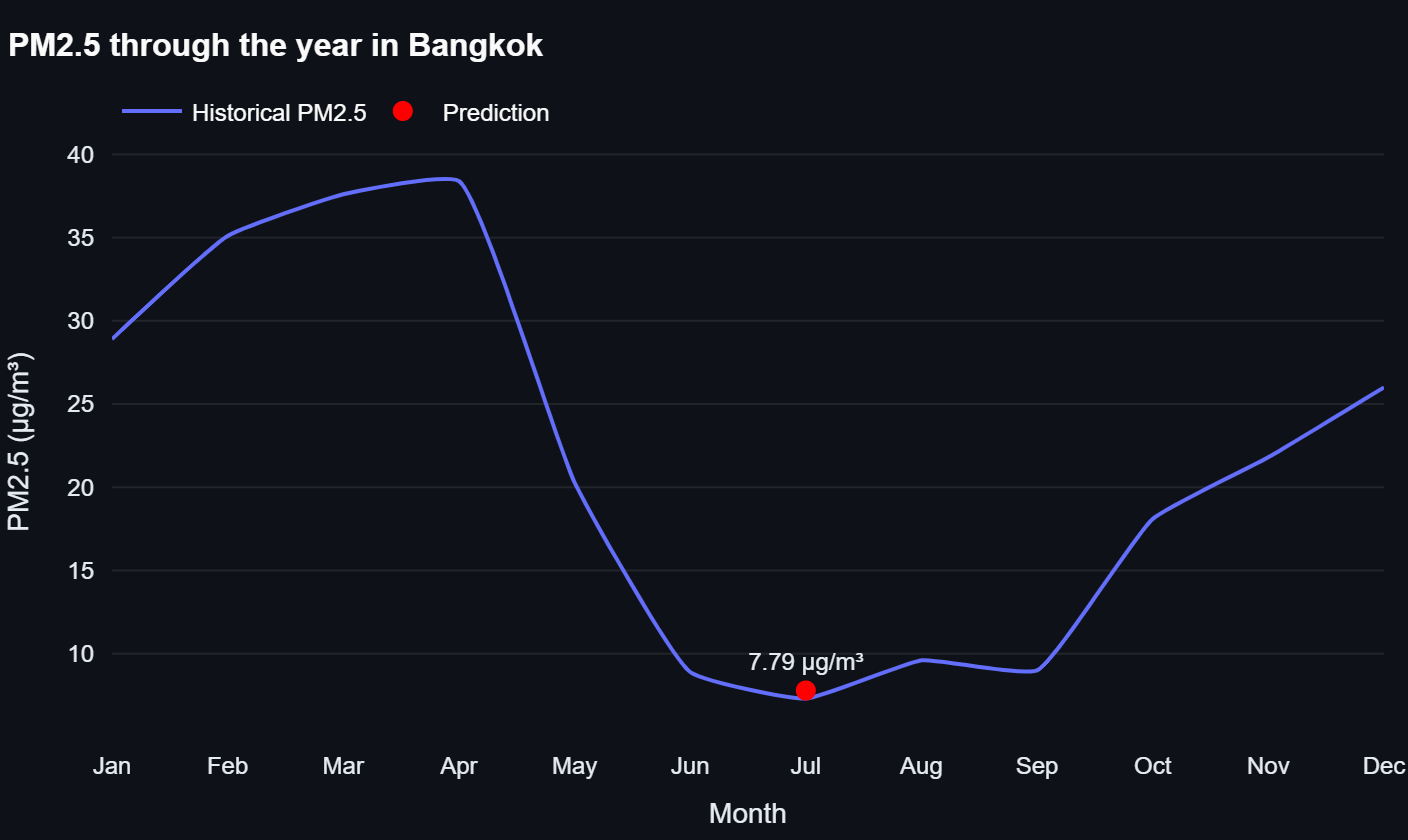
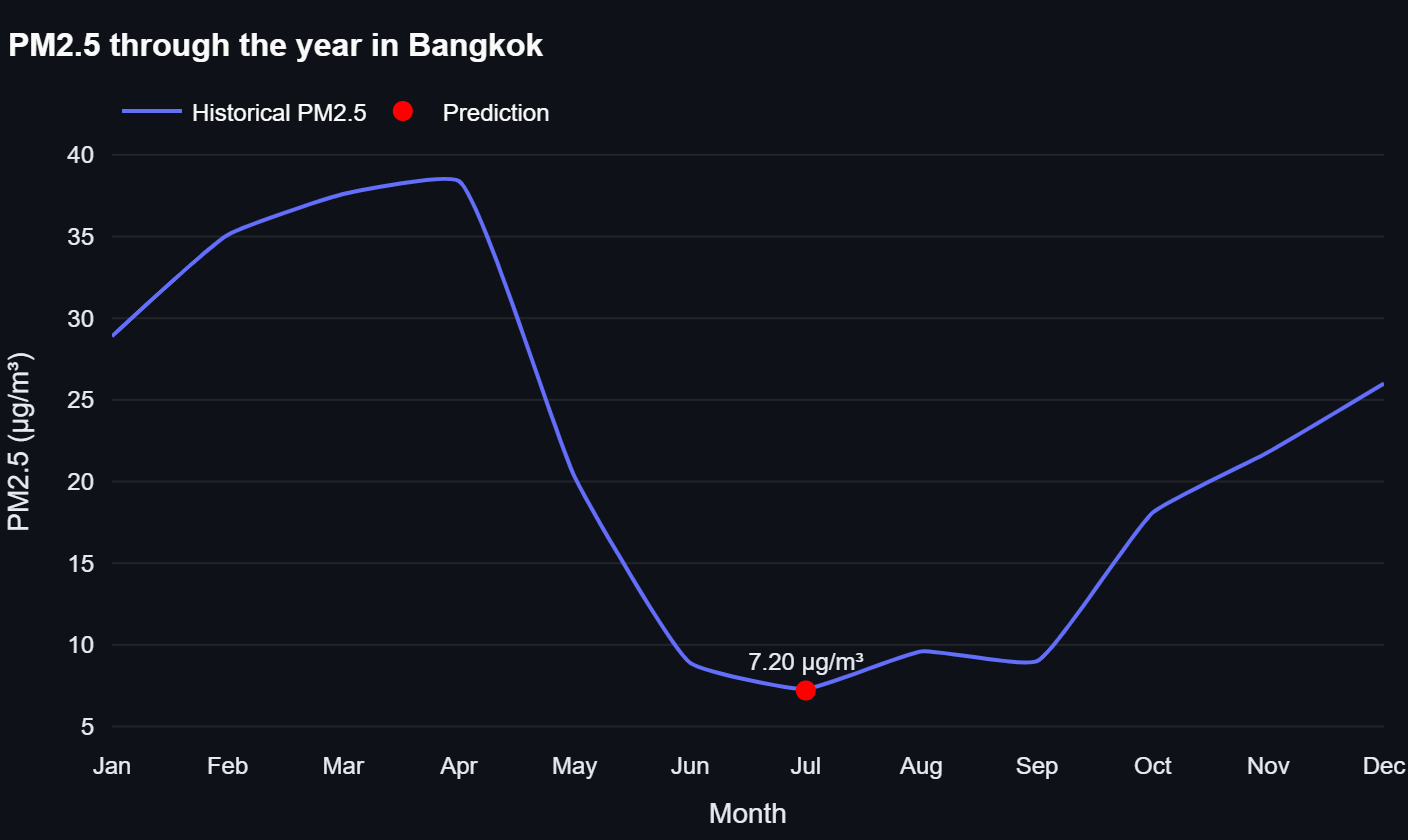
Predict seasonal shape from 25,510 city-months instead of 12 rows
The gauge banded a µg/m³ value on AQI index breakpoints, so 40 µg/m³ showed
green when that is already unhealthy for sensitive groups. Bands are now EPA
PM2.5 breakpoints with the WHO 24-hour guideline of 15 marked, and the caption
says the live value is CAMS model output rather than a station reading.

The model trained on one city at a time: twelve rows, a random split that
trains on December to predict June, and the annual mean as an input feature,
which is the mean of the twelve values being predicted.

Pooling cities and predicting level from static features was tried first and
came out at 21.9 MAE against 17.6 for plain monthly climatology, so it is not
in the build. Population density describes emission potential, not what the
air is doing.

What ships instead predicts the seasonal multiplier and scales it by the
city's own level. 25,510 city-months, 2,106 cities, grouped five-fold so whole
cities are held out, and an anchor that excludes the month being predicted so
the target does not leak into its own feature. 5.1 µg/m³ MAE against 9.5 for
assuming every month equals the annual average.

Predictions now carry an 80% interval from the spread across the forest's
trees, and the UI states the error against baseline rather than leaving the
reader to assume.

diff --git a/EveryAir/EveryAir.py b/EveryAir/EveryAir.py
@@ -12,7 +12,7 @@ import numpy as np
 import plotly.graph_objects as go
 import folium
 from streamlit_folium import folium_static
-from sklearn.model_selection import train_test_split
+from sklearn.model_selection import GroupKFold
 from sklearn.metrics import mean_absolute_error
 from sklearn.preprocessing import StandardScaler
 from folium.plugins import MarkerCluster
@@ -215,23 +215,84 @@ try:
 except ValueError:
     st.error("Latitude and Longitude are NaN.")
 
-# Features and target
-X = data[['Month', '2023']].copy()
-# New Humidity and temperature feature
-if 'Temperature' in data.columns and 'Humidity' in data.columns:
-    X['Temperature'] = data['Temperature']
-    X['Humidity'] = data['Humidity']
+MONTH_NAMES = ['Jan', 'Feb', 'Mar', 'Apr', 'May', 'Jun',
+               'Jul', 'Aug', 'Sep', 'Oct', 'Nov', 'Dec']
+SEASON_FEATURES = ['month_sin', 'month_cos', 'country_code', 'pop_density']
 
-y = data['PM2.5']
 
-# Splitting | Train-test
+@st.cache_resource(show_spinner=False)
+def train_seasonal_model():
+    pop_avg = pop_df.groupby('City', as_index=False)['pop_density'].mean()
+    panel = df.melt(id_vars=['Rank', 'City', 'Country', '2023'], value_vars=MONTH_NAMES,
+                    var_name='MonthName', value_name='PM2.5')
+    panel['Month'] = panel['MonthName'].map({m: i + 1 for i, m in enumerate(MONTH_NAMES)})
+    panel['PM2.5'] = pd.to_numeric(panel['PM2.5'], errors='coerce')
+    panel = panel.dropna(subset=['PM2.5']).merge(pop_avg, on='City', how='left')
+    panel['pop_density'] = panel['pop_density'].fillna(panel['pop_density'].median())
+
+    total = panel.groupby('City')['PM2.5'].transform('sum')
+    count = panel.groupby('City')['PM2.5'].transform('count')
+    panel['anchor'] = (total - panel['PM2.5']) / (count - 1)
+    panel = panel[(panel['anchor'] > 0) & (count > 6)].copy()
+    panel['ratio'] = panel['PM2.5'] / panel['anchor']
+    panel['month_sin'] = np.sin(2 * np.pi * panel['Month'] / 12)
+    panel['month_cos'] = np.cos(2 * np.pi * panel['Month'] / 12)
+    countries = {c: i for i, c in enumerate(sorted(panel['Country'].astype(str).unique()))}
+    panel['country_code'] = panel['Country'].astype(str).map(countries)
+
+    features, target, groups = panel[SEASON_FEATURES], panel['ratio'], panel['City']
+    model_errors, flat_errors = [], []
+    for train_idx, test_idx in GroupKFold(n_splits=5).split(features, target, groups):
+        fold = RandomForestRegressor(n_estimators=200, random_state=42,
+                                     min_samples_leaf=3, n_jobs=-1)
+        fold.fit(features.iloc[train_idx], target.iloc[train_idx])
+        predicted = fold.predict(features.iloc[test_idx]) * panel.iloc[test_idx]['anchor'].values
+        model_errors.append(mean_absolute_error(panel.iloc[test_idx]['PM2.5'], predicted))
+        flat_errors.append(mean_absolute_error(panel.iloc[test_idx]['PM2.5'],
+                                               panel.iloc[test_idx]['anchor']))
+
+    model = RandomForestRegressor(n_estimators=300, random_state=42,
+                                  min_samples_leaf=3, n_jobs=-1)
+    model.fit(features, target)
+    return model, countries, {
+        'model_mae': float(np.mean(model_errors)),
+        'flat_mae': float(np.mean(flat_errors)),
+        'rows': int(len(panel)),
+        'cities': int(panel['City'].nunique()),
+    }
+
+
+season_model, country_codes, model_report = train_seasonal_model()
+
+city_months = data.sort_values('Month')
+city_anchor = float(city_months['PM2.5'].mean())
+city_country = str(df.loc[df['City'] == city, 'Country'].iloc[0]) if (df['City'] == city).any() else ''
+
+
+def season_features(month_value, anchor_pop):
+    return pd.DataFrame([{
+        'month_sin': np.sin(2 * np.pi * month_value / 12),
+        'month_cos': np.cos(2 * np.pi * month_value / 12),
+        'country_code': country_codes.get(city_country, -1),
+        'pop_density': anchor_pop,
+    }])[SEASON_FEATURES]
+
+
+def predict_month(month_value, anchor=None, anchor_pop=None):
+    anchor = city_anchor if anchor is None else anchor
+    row = season_features(month_value, anchor_pop if anchor_pop is not None else 0.0)
+    per_tree = np.array([t.predict(row)[0] for t in season_model.estimators_])
+    centre = float(per_tree.mean()) * anchor
+    spread = float(per_tree.std()) * anchor
+    return centre, max(centre - 1.28 * spread, 0.0), centre + 1.28 * spread
+
 
 # Current Date
 current_month = datetime.now().month
 current_year = datetime.now().year
 
-temperature, humidity, wind_speed, min_temp, max_temp, rainfall = fetch_additional(latitude, longitude) # fetch weather
-ndvi = fetch_ndvi(latitude, longitude) # fetch NDVI based on lat/lon
+temperature, humidity, wind_speed, min_temp, max_temp, rainfall = fetch_additional(latitude, longitude)
+ndvi = fetch_ndvi(latitude, longitude)
 SEARCH_RADIUS_KM = 50
 industrial_sites = fetch_industrial_sites_near_city(latitude, longitude)
 industry_lookup_failed = industrial_sites is None
@@ -240,48 +301,14 @@ dist = (km_to_nearest_site([latitude], [longitude], industrial_sites).tolist()
         if industrial_sites else [])
 nearest_industrial = min(dist) if dist else float(SEARCH_RADIUS_KM)
 if temperature is not None:
-    st.sidebar.write("🌦 Live Weather Information:")
-    st.sidebar.code(f"🌡 Temperature: {temperature:.0f}°C")
-    st.sidebar.code(f"💧 Humidity: {humidity} %")
-    st.sidebar.code(f"☔ Rainfall: {rainfall} mm")
+    st.sidebar.write("Live weather")
+    st.sidebar.code(f"Temperature: {temperature:.0f}°C")
+    st.sidebar.code(f"Humidity: {humidity} %")
+    st.sidebar.code(f"Rainfall: {rainfall} mm")
 else:
-    st.sidebar.write("Data Fetch Failed:\n")
-    st.sidebar.write("Please try again later (￣﹏￣；)")
+    st.sidebar.write("Weather fetch failed, try again later.")
 
 pop_density, street_density = fetch_urban(df_merged, city)
-if pop_density is not None:
-    X['pop_density'] = pop_density
-    X['street_density'] = street_density
-    X['NDVI'] = ndvi
-    X['dist'] = nearest_industrial
-
-X_train, X_test, y_train, y_test = train_test_split(X, y, test_size=0.2, random_state=42)
-
-def feature_row(month_value, yearly_value=None):
-    row = {c: X[c].iloc[0] for c in X.columns}
-    row["Month"] = month_value
-    if yearly_value is not None:
-        row["2023"] = yearly_value
-    return pd.DataFrame([row])[X.columns]
-
-
-# Extended Models
-models = {
-    "Random Forest": RandomForestRegressor(n_estimators=100, random_state=42),
-    "Linear Regression": LinearRegression(),
-    "Gradient Boosting": GradientBoostingRegressor(random_state=42),
-    "XGBoost": XGBRegressor(random_state=42),
-}
-
-model_scores = {}
-for model_type, model in models.items():
-    model.fit(X_train, y_train)
-    y_pred = model.predict(X_test)
-    mae = mean_absolute_error(y_test, y_pred)
-    model_scores[model_type] = mae
-
-best_model = min(model_scores, key=model_scores.get)
-best_model_instance = models[best_model]
 
 # Real-Time Data
 def fetch_real_time_pm2_5(lat, lon):
@@ -348,17 +375,22 @@ if st.session_state.show_content:
         fig.add_trace(go.Indicator(
             mode="gauge+number",
             value=pm2_5_value,
-            title={"text": f"Real-Time PM2.5 Level for {city}"},
+            title={"text": f"PM2.5 right now in {city} (µg/m³)"},
             gauge={
-                "axis": {"range": [0, 500]},
+                "axis": {"range": [0, 250], "tickvals": [0, 9, 35.4, 55.4, 125.4, 250]},
                 "steps": [
-                    {"range": [0, 50], "color": "#5bfc6b"},    
-                    {"range": [50, 100], "color": "#dcfc5b"},
-                    {"range": [100, 150], "color": "#fc965b"},
-                    {"range": [150, 200], "color": "#ff4b33"},  
-                    {"range": [200, 500], "color": "#9e1010"}
+                    {"range": [0, 9], "color": "#5bfc6b"},
+                    {"range": [9, 35.4], "color": "#dcfc5b"},
+                    {"range": [35.4, 55.4], "color": "#fc965b"},
+                    {"range": [55.4, 125.4], "color": "#ff4b33"},
+                    {"range": [125.4, 250], "color": "#9e1010"}
                 ],
-                "bar": {"color": "black"}
+                "threshold": {
+                    "line": {"color": "#ffffff", "width": 3},
+                    "thickness": 0.85,
+                    "value": 15,
+                },
+                "bar": {"color": "#111111"}
             }
         ))
         fig.update_layout(
@@ -369,8 +401,13 @@ if st.session_state.show_content:
         )
 
         st.plotly_chart(fig, use_container_width=True)
+        st.caption(
+            "Bands are US EPA PM2.5 breakpoints in µg/m³. The white line marks the "
+            "WHO 24-hour guideline of 15 µg/m³. Live value is CAMS model output from "
+            "OpenWeather, not a ground station."
+        )
 
-    def show_city_on_map(city, latitude, longitude, input_features, best_model_instance, real_time_pm2_5=None, predicted_pm2_5=None):
+    def show_city_on_map(city, latitude, longitude, real_time_pm2_5=None, predicted_pm2_5=None):
         st.subheader(f"Where it settles in {city}")
 
         m = folium.Map(location=[latitude, longitude], zoom_start=9)
@@ -390,50 +427,12 @@ if st.session_state.show_content:
             folium_static(m, width=1120, height=520)
             st.caption(note)
 
-        if "dist" not in X.columns or not industrial_sites:
-            draw_single_marker(
-                "The industrial site lookup failed, so the map shows the single city "
-                "prediction rather than a surface."
-                if industry_lookup_failed else
-                "No industrial sites mapped nearby, so nothing varies the prediction "
-                "across the map. One value for the whole city."
-            )
-            return
-
-        span, steps = 0.4, 28
-        mesh_lat, mesh_lon = np.meshgrid(
-            np.linspace(latitude - span, latitude + span, steps),
-            np.linspace(longitude - span, longitude + span, steps),
-        )
-        flat_lat, flat_lon = mesh_lat.ravel(), mesh_lon.ravel()
-
-        frame = pd.DataFrame([{c: X[c].iloc[0] for c in X.columns} for _ in range(len(flat_lat))])
-        frame["Month"] = current_month
-        frame["dist"] = km_to_nearest_site(flat_lat, flat_lon, industrial_sites)
-        values = best_model_instance.predict(frame[X.columns])
-        spread = float(values.max()) - float(values.min())
-
-        if spread < 0.5:
-            draw_single_marker(
-                f"Distance to industry ranges {frame['dist'].min():.0f} to "
-                f"{frame['dist'].max():.0f} km across this area, but the model returns the "
-                f"same value throughout, so there is no surface to draw. Training uses one "
-                f"row per month for a single city, which leaves distance constant and gives "
-                f"the model nothing to learn from."
-            )
-            return
-
-        HeatMap(
-            [[float(flat_lat[i]), float(flat_lon[i]), float(values[i])] for i in range(len(values))],
-            radius=30, blur=24, min_opacity=0.2,
-            max_val=float(values.max()),
-            gradient={0.0: "#2c7bb6", 0.4: "#abd9e9", 0.6: "#ffffbf",
-                      0.8: "#fdae61", 1.0: "#d7191c"},
-        ).add_to(m)
-        folium_static(m, width=1120, height=520)
-        st.caption(
-            f"Predicted {values.min():.1f} to {values.max():.1f} µg/m³ across the area, "
-            f"varying with distance to industry."
+        draw_single_marker(
+            f"{predicted_pm2_5:.1f} µg/m³ predicted for {city} this month. The model "
+            f"works at city level, so there is one value for the whole area rather than "
+            f"a surface."
+            if predicted_pm2_5 is not None else
+            "No prediction available for this city."
         )
 
 
@@ -452,8 +451,7 @@ if st.session_state.show_content:
 
     # Predict PM2.5
     if real_time_pm2_5 is not None:
-        input_features = feature_row(current_month)
-        predicted_pm2_5 = best_model_instance.predict(input_features)[0]
+        predicted_pm2_5, predicted_low, predicted_high = predict_month(current_month)
 
         # Two rows of four rather than 4/3/3, which never lined up. The unit
         # belongs in the label: st.metric's third argument is a delta, so
@@ -517,20 +515,21 @@ if st.session_state.show_content:
 
         # Yearly avg prediction input
         st.subheader("Predict a month")
-        _city_avg = float(data['2023'].iloc[0]) if len(data) else 100.0
+        _city_avg = city_anchor
         pc1, pc2 = st.columns(2)
         with pc1:
             month = st.selectbox("Month", list(month_map.keys()))
         with pc2:
             yearly_avg = st.number_input(
-                "Yearly average (µg/m³)", value=round(_city_avg, 1), step=1.0)
+                "Typical yearly level (µg/m³)", value=round(_city_avg, 1), step=1.0,
+                help="The model predicts the seasonal shape and scales it by this level.")
         # Prediction
         if st.button("Predict"):
             with st.spinner(text="Predicting..."):
                 time.sleep(2)
             month_numeric = month_map[month]
-            input_features = feature_row(month_numeric, yearly_avg)
-            prediction = best_model_instance.predict(input_features)
+            prediction, prediction_low, prediction_high = predict_month(
+                month_numeric, anchor=yearly_avg)
             with st.status("Predicting Data..."):
                 st.write("Fetching trained data...")
                 time.sleep(2)
@@ -544,6 +543,14 @@ if st.session_state.show_content:
             st.success(f"🔎\tPredicted PM2.5 level for {month}: **{prediction[0]:.2f}**\t")
 
         st.subheader("Forecast")
+        st.caption(
+            f"Seasonal shape learned from {model_report['rows']:,} city-months across "
+            f"{model_report['cities']:,} cities. Tested on cities held out of training: "
+            f"{model_report['model_mae']:.1f} µg/m³ mean absolute error, against "
+            f"{model_report['flat_mae']:.1f} for assuming every month equals the city's "
+            f"annual average. This is climatology, not a weather forecast: it says what "
+            f"a month typically looks like, not what next week will bring."
+        )
 
         # Visualisation
         fig = go.Figure()
@@ -581,5 +588,5 @@ if st.session_state.show_content:
         fig.update_yaxes(automargin=True, gridcolor='rgba(255,255,255,0.08)', zeroline=False)
 
         st.plotly_chart(fig, use_container_width=True)
-        show_city_on_map(city, latitude, longitude, input_features, best_model_instance,
+        show_city_on_map(city, latitude, longitude,
                          real_time_pm2_5=real_time_pm2_5, predicted_pm2_5=predicted_pm2_5)   

diff --git a/README.md b/README.md
@@ -15,31 +15,61 @@ Shots of the thing actually running, because a folder of `.py` files proves noth
 
 ![Real-time PM2.5 gauge for Bangkok](docs/screenshots/gauge.png)
 
-Current reading off OpenWeather, dropped on a 0 to 500 scale. The colour bands
-are the usual AQI breakpoints, so you can read it without reading the number.
-Bangkok on a good afternoon sits near the floor, which is less exciting than it
-sounds.
+Current reading in µg/m³, banded on US EPA PM2.5 breakpoints, with the WHO
+24-hour guideline of 15 µg/m³ marked as a white line.
 
-### Forecast against history
+The bands used to be 0-50 green, 50-100 yellow and so on. Those are AQI index
+numbers, and the gauge was showing µg/m³. Two different scales on one dial: it
+coloured 40 µg/m³ green when that is already unhealthy for anyone with asthma.
 
-![PM2.5 forecast versus historical data](docs/screenshots/forecast.png)
+The live value comes from OpenWeather, which serves CAMS model output rather
+than a ground station. Worth knowing before comparing it to a local monitor.
 
-Blue line is the twelve month PM2.5 history straight out of `Asia_Dataset.csv`.
-Red dot is what the Random Forest thinks a given month looks like. The dry
-season spike from February to April and the monsoon dip around June fall out of
-the data on their own, which is a good sign the model is not just drawing a
-flat line through the mean.
+### Seasonal model
 
-Months read as names rather than 1 to 12, the legend sits along the top so the
-plot keeps the full width, and the only labelled point is the prediction. A
-number on every point is noise.
+![PM2.5 through the year](docs/screenshots/forecast.png)
+
+Blue line is the twelve month history for the selected city. Red dot is the
+model's estimate for the current month, and the prediction panel gives an 80%
+interval taken from the spread across the forest's trees.
+
+The model predicts the *shape* of a city's year, not its level. It learns a
+monthly multiplier from 25,510 city-months across 2,106 cities, then scales that
+by the city's own typical level. Tested on whole cities held out of training it
+lands at 5.1 µg/m³ mean absolute error, against 9.5 for assuming every month
+equals the annual average. About 47% better, on cities it has never seen.
+
+Three things it does not do, said plainly.
+
+It is climatology, not weather. It answers "what does March usually look like
+here", not "what will next Tuesday bring". There is no lead time and no initial
+condition anywhere in it.
+
+It used to train on twelve rows: one city, one row per month, then a random 20%
+split, which trains on December to predict June. The annual mean was also an
+input feature, and that is the mean of the twelve values it was predicting.
+
+Static city features turned out to be weak. Pooling cities and predicting level
+directly from population density scored 21.9 MAE, worse than plain monthly
+climatology at 17.6. Population describes emission potential, not what the air is
+doing. That result is why the model predicts shape and takes level as given.
+
+Missing, in rough order of how much they would help: mixing height, which is the
+strongest single control on surface concentration, precipitation for wet
+deposition, wind vector for ventilation and transport, and upwind active fire
+counts. In Southeast Asia the February to April peak is largely agricultural
+burning, much of it across a border.
 
 ### Weather and urban features
 
 Eight tiles, each with an icon, a label, the number, and what the number is in.
 Population density, street density, NDVI greenness and distance to the nearest
-industrial site, then temperature, wind, humidity and rainfall. Those are what
-the model eats, not decoration.
+industrial site, then temperature, wind, humidity and rainfall.
+
+These are context, not model inputs. The seasonal model runs on month and city
+level alone, because pooling tested worse than climatology when it tried to
+predict level from these. NDVI is also on a 1 degree grid, roughly 111 km, so it
+describes a region rather than a city.
 
 `50+ km` on the industry tile is a real answer rather than a failure. Overpass
 gets asked for industrial landuse inside a 50 km box and sometimes there is
